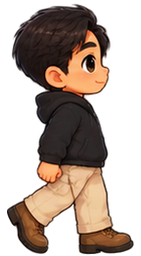
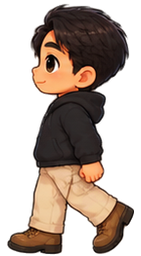
Fix male walking direction: face left walking in, right walking out
He enters from the right screen edge and leaves to the right, but his
walk sheets faced the opposite way, so the walk frames are now mirrored.

diff --git a/Scripts/slice_male_frames.py b/Scripts/slice_male_frames.py
@@ -95,6 +95,10 @@ def canvas(frames, height, scale=None):
     return out, scale
 
 
+def mirrored(frames):
+    return [f.transpose(Image.FLIP_LEFT_RIGHT) for f in frames]
+
+
 def save(frames, name):
     for i, f in enumerate(frames):
         f.save(OUT / f"{name}_{i}.png", optimize=True)
@@ -103,8 +107,9 @@ def save(frames, name):
 
 def main():
     OUT.mkdir(parents=True, exist_ok=True)
-    save(canvas(split(load("Male Walk In.png")), BODY_H)[0], "walkin")
-    save(canvas(split(load("Male Walk Out.png")), BODY_H)[0], "walkout")
+    # He enters from the right edge walking left and leaves to the right; the sheets face the other way.
+    save(mirrored(canvas(split(load("Male Walk In.png")), BODY_H)[0]), "walkin")
+    save(mirrored(canvas(split(load("Male Walk Out.png")), BODY_H)[0]), "walkout")
     save(canvas(split(load("Male Give Water.png")), BODY_H)[0], "give")
     save(canvas(split(load("Male Happy.png")), BODY_H)[0][:1], "happy")   # the jumping pose
     save(canvas(split(load("Male Sad.png")), BODY_H)[0], "sad")
